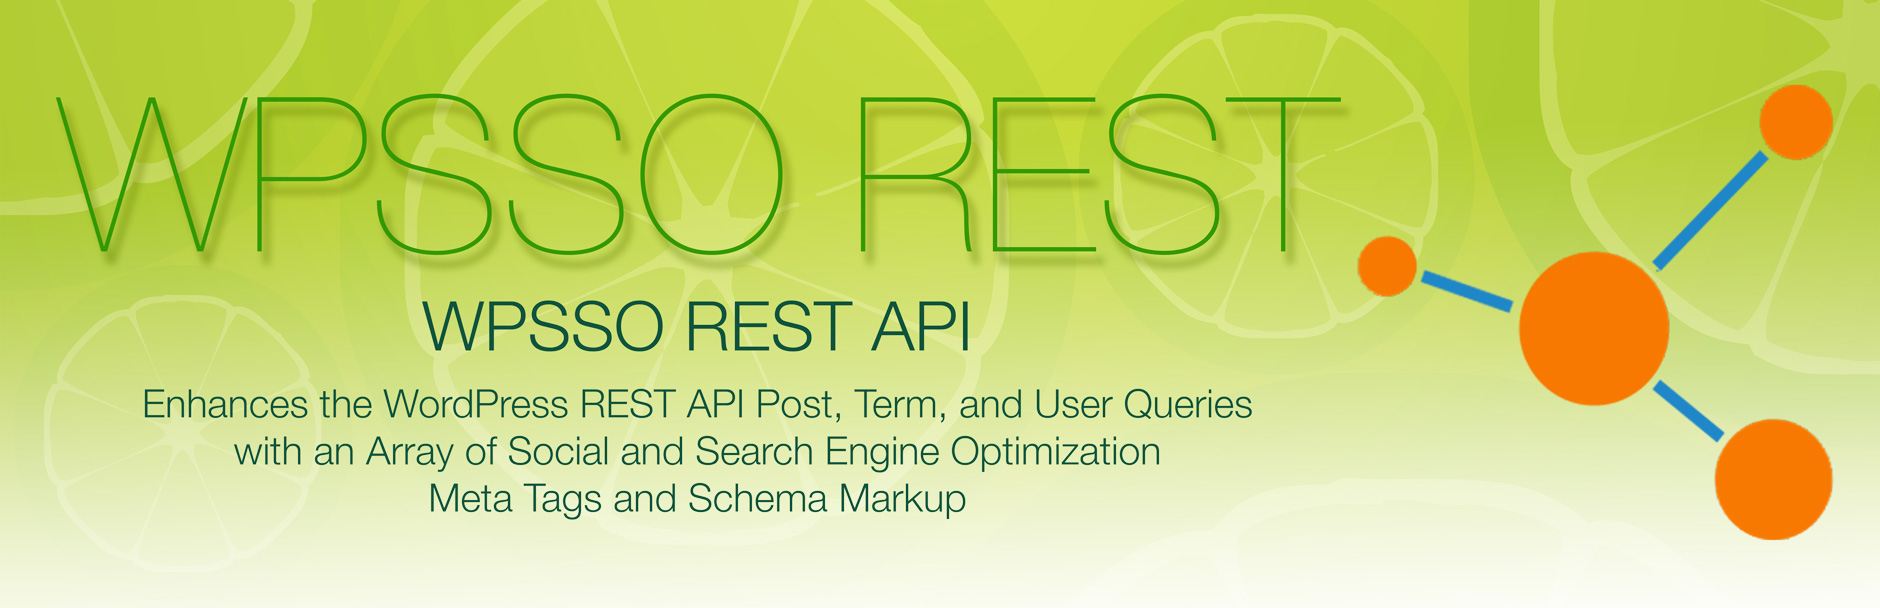
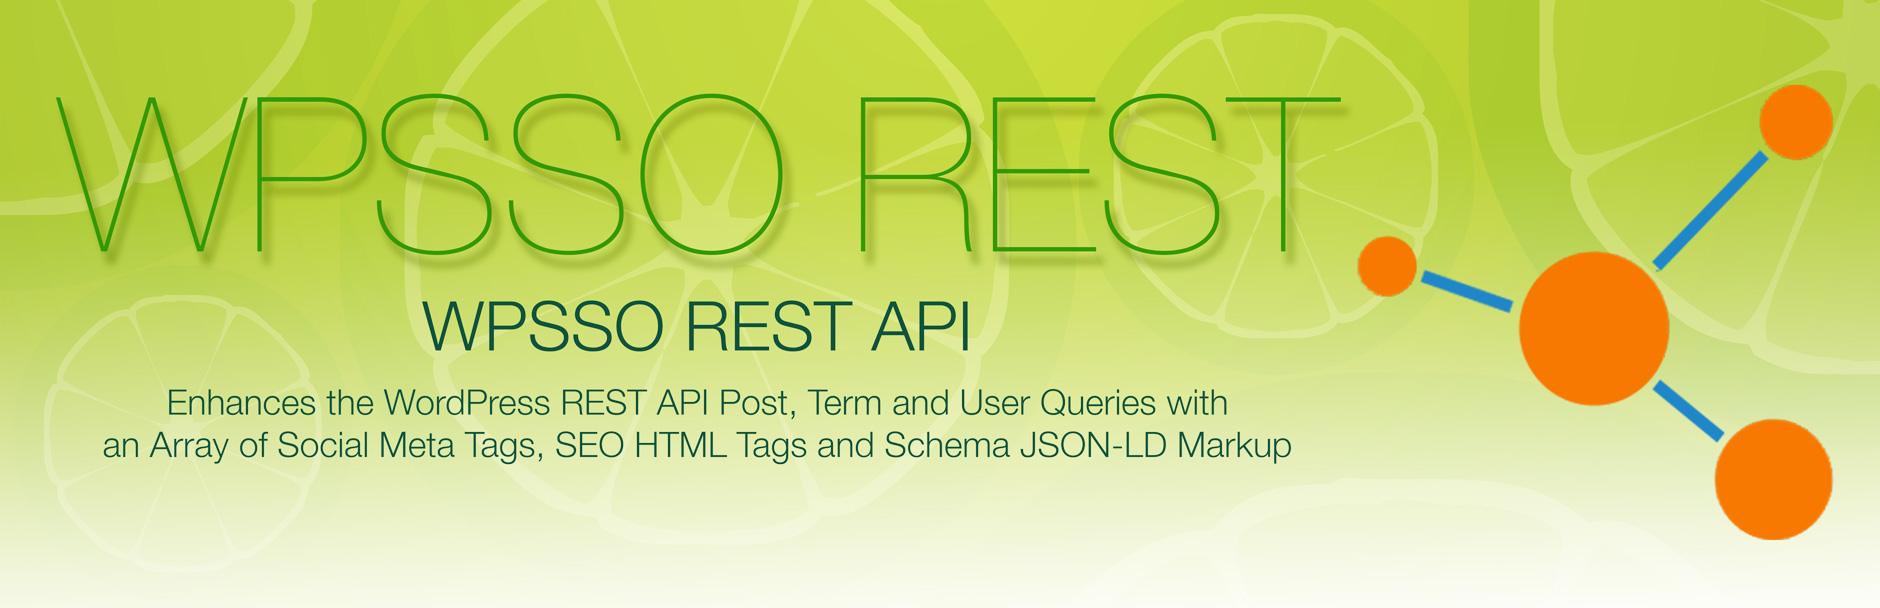
non-essential support files (documentation and assets)

Changed region(s): [[0.0617, 0.625, 0.7096, 0.8438]]

diff --git a/index.html b/index.html
@@ -29,7 +29,7 @@
 
 <table>
 <tr><th align="right" valign="top" nowrap>Plugin Name</th><td>WPSSO REST API</td></tr>
-<tr><th align="right" valign="top" nowrap>Summary</th><td>Enhances the WordPress REST API post, term and user queries with an array of social meta tags, SEO HTML tags and Schema JSON-LD markup.</td></tr>
+<tr><th align="right" valign="top" nowrap>Summary</th><td>Enhances the WordPress REST API Post, Term and User Queries with an Array of Social Meta Tags, SEO HTML Tags and Schema JSON-LD Markup.</td></tr>
 <tr><th align="right" valign="top" nowrap>Stable Version</th><td>2.1.0</td></tr>
 <tr><th align="right" valign="top" nowrap>Requires PHP</th><td>5.6 or newer</td></tr>
 <tr><th align="right" valign="top" nowrap>Requires WordPress</th><td>4.7 or newer</td></tr>
